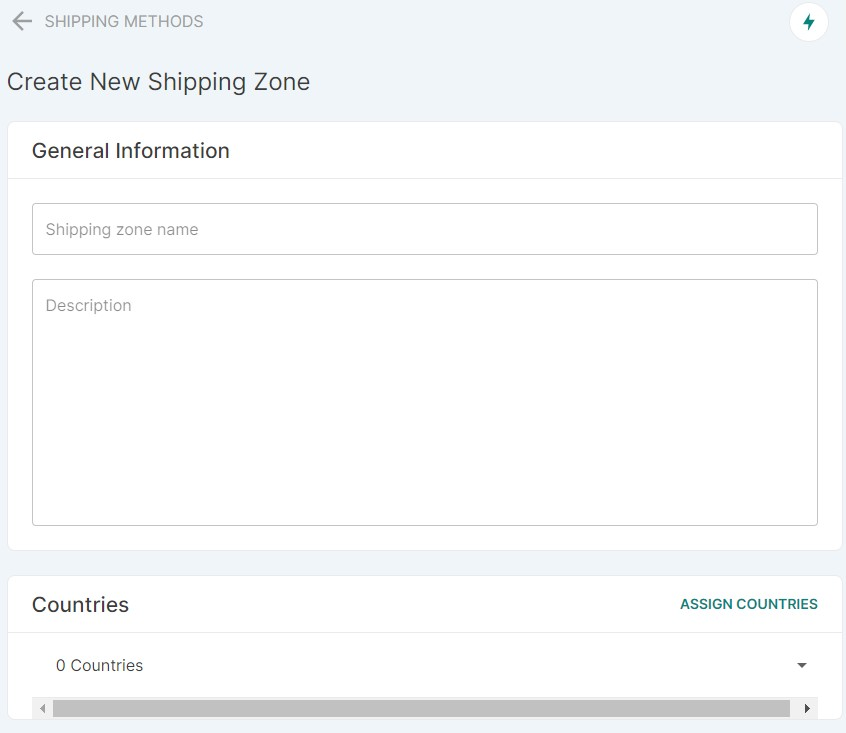
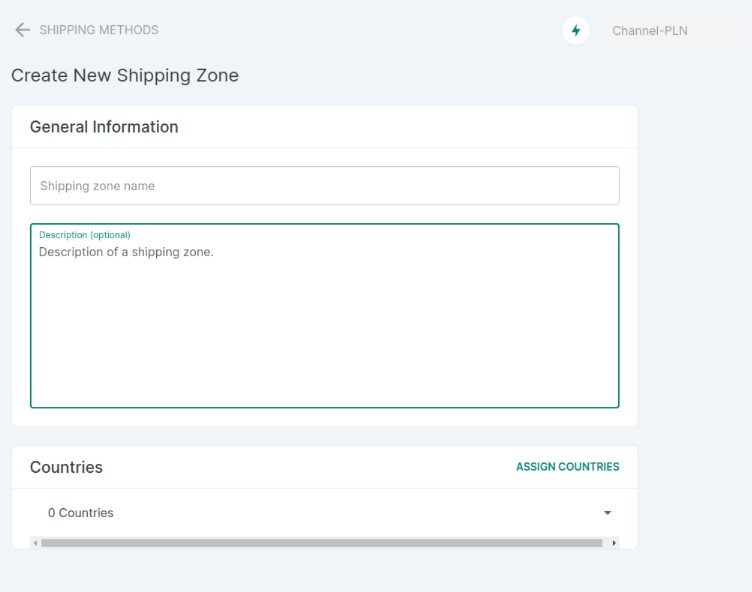
Update information and replace screenshot

diff --git a/docs/dashboard/configuration/shipping.md b/docs/dashboard/configuration/shipping.md
@@ -20,14 +20,14 @@ You can choose metric or imperial weight units as the default in which your stor
 
 Shipping Zones define the cost of shipping in different areas of the world. Collecting countries together in zones allows you to assign the best shipping and delivery options for customers.
 
-To create a shipping zone, first you need to click _Create Shipping Zone_ in the top right corner of the Shipping by Zone card. The next step is to provide the name and description of the shipping zone. 
+To create a shipping zone, first you need to click _Create Shipping Zone_ in the top right corner of the Shipping by Zone card. The next step is to provide the name and description (optional) of the shipping zone. 
 
 ![Create Shipping Zone](../screenshots/config-shipping-zone-create-new.jpg)
 
 Then click _Assign Countries_ and use one of three options that appear in the pop-up window:
 
 1. In the Search Countries section at the top, you can search specific countries by name and assign them to the shipping zone.
-2. The Quick Pick section is an option that allows you create a shipping for all unassigned countries. This is a useful option for defining a final ‘Rest Of The World’ shipping zone to guarantee global coverage.
+2. The Quick Pick section is an option that allows you to create a shipping for all unassigned countries. This is a useful option for defining a final ‘Rest Of The World’ shipping zone to guarantee global coverage.
 3. Scroll through the Countries A to Z list and assign countries using the checkboxes.
 
 Click _Assign Countries_ to confirm your selection.
